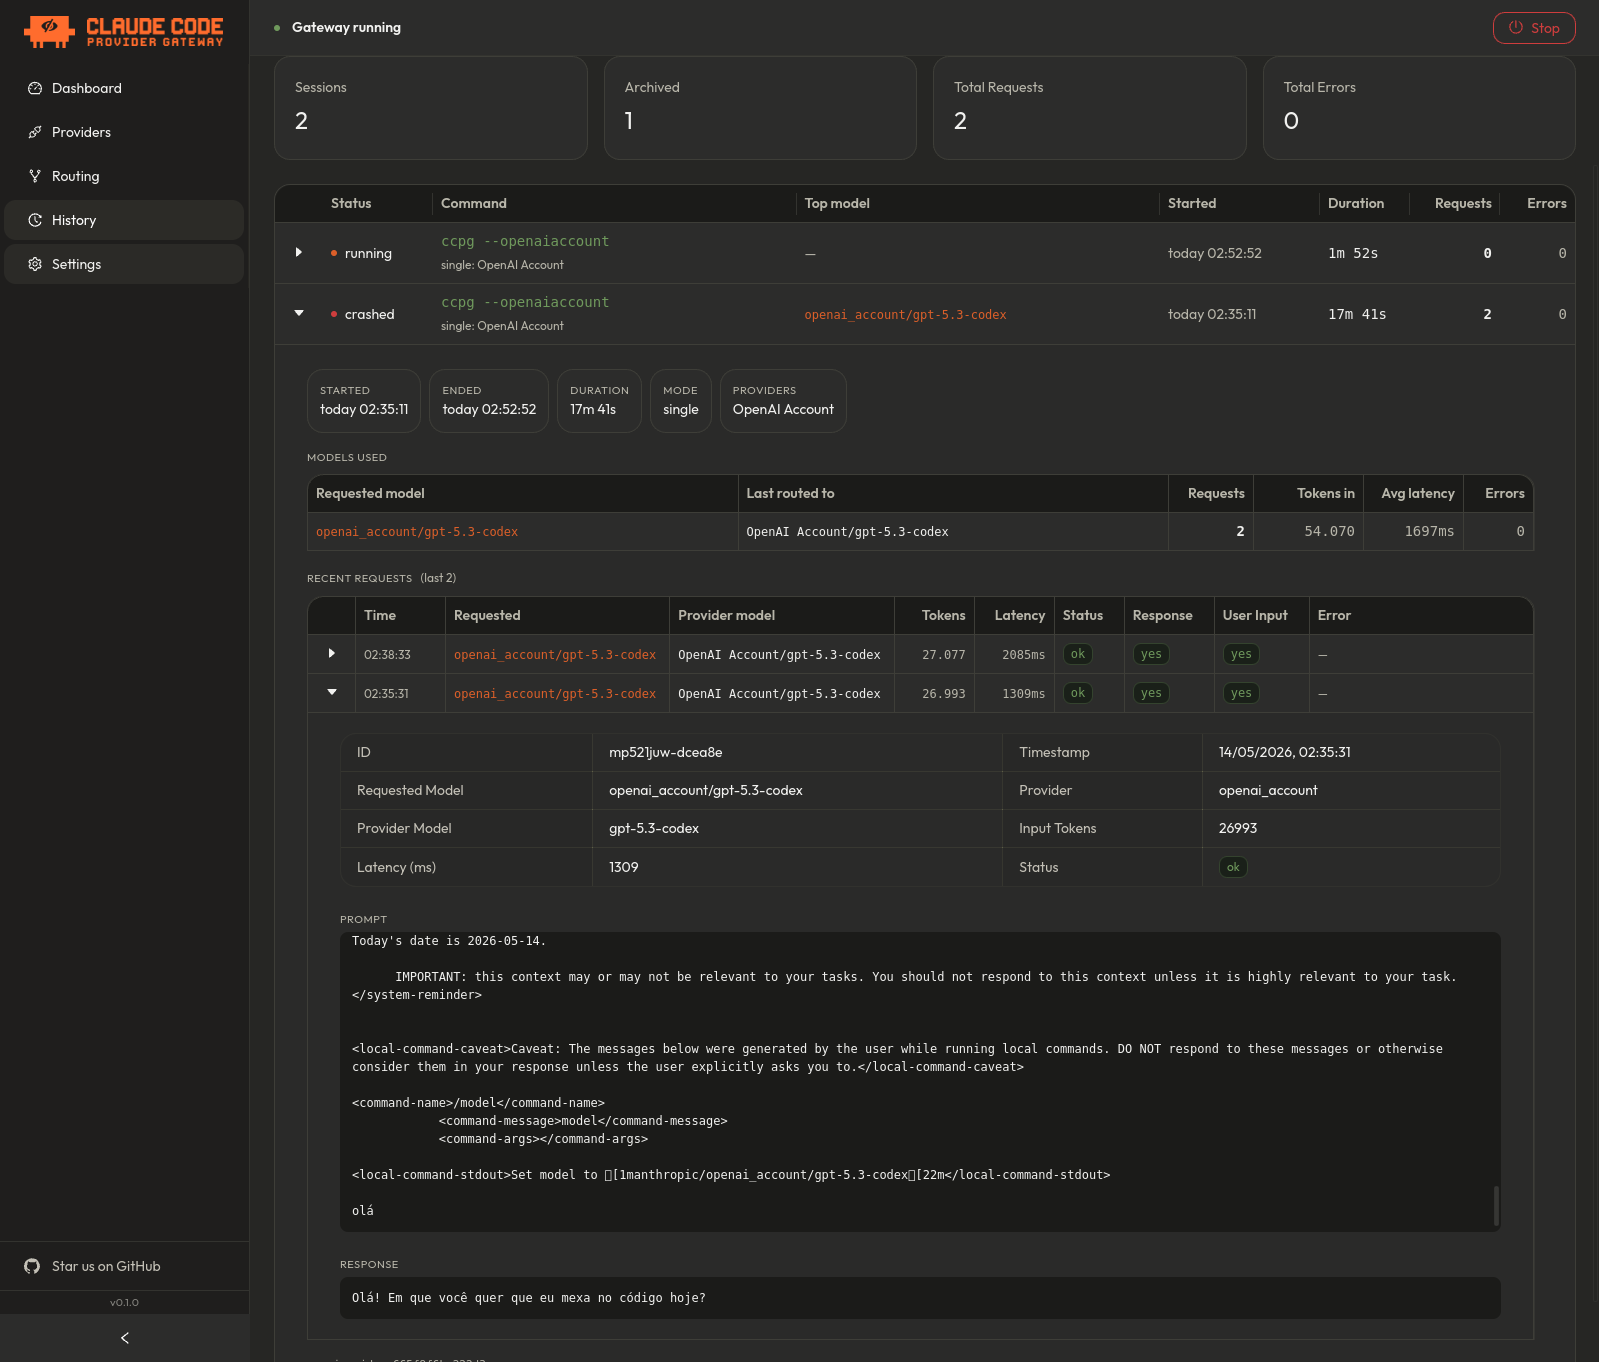
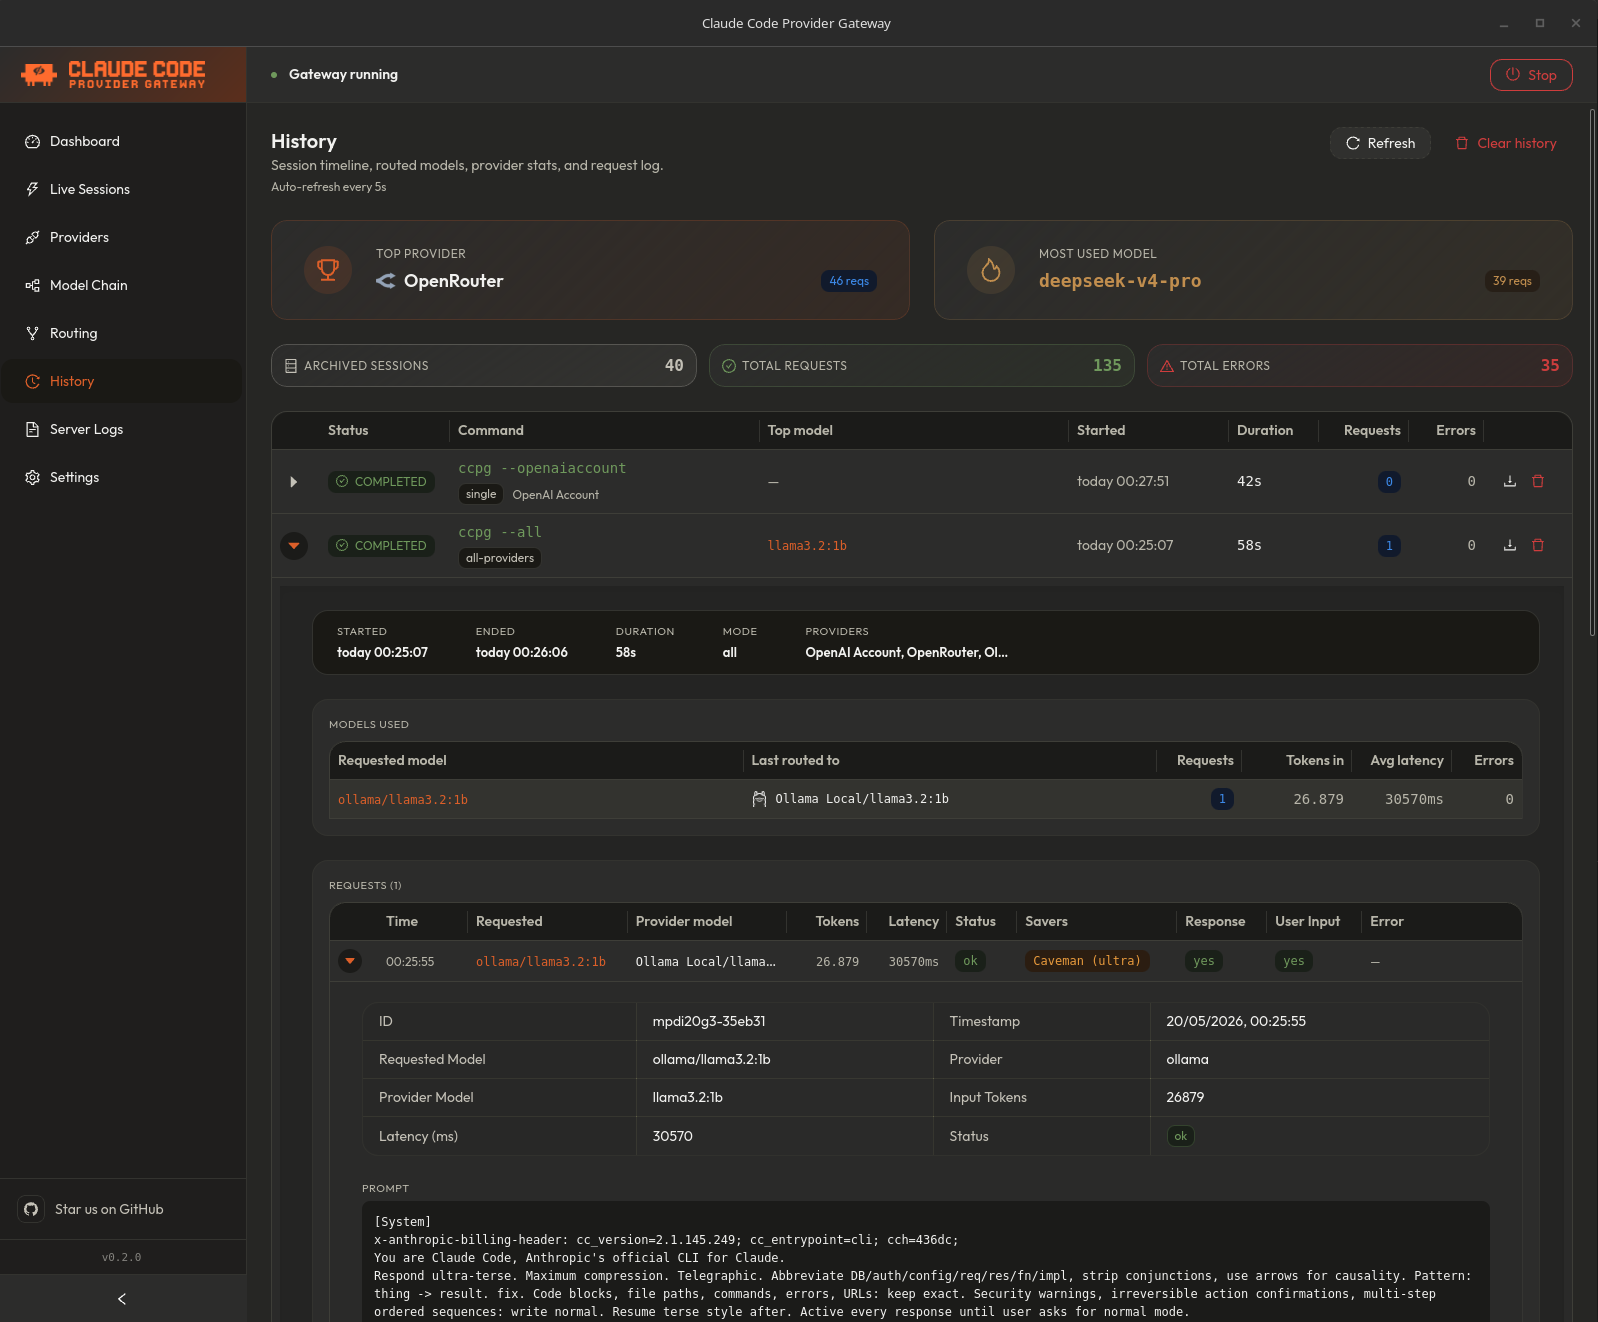
feat: Update screenshots and README.md

diff --git a/packages/panel/src/features/dashboard/components/quick-launch/QuickLaunchCard.tsx b/packages/panel/src/features/dashboard/components/quick-launch/QuickLaunchCard.tsx
@@ -1,5 +1,5 @@
 import { CodeOutlined, CopyOutlined } from "@ant-design/icons";
-import { Card, Empty, Flex, Tooltip, Typography, theme } from "antd";
+import { Card, Divider, Empty, Flex, Tooltip, Typography, theme } from "antd";
 import { useCopyToClipboard } from "../../../../shared/hooks/useCopyToClipboard.js";
 import type { LaunchItem } from "../../domain/types.js";
 
@@ -69,6 +69,8 @@ function AvailableProviders({
   onCopy: (key: string, value: string) => void;
 }) {
   const { token } = theme.useToken();
+  const providerItems = items.filter((item) => !isChainLaunchItem(item));
+  const chainItems = items.filter(isChainLaunchItem);
 
   if (error) {
     return (
@@ -93,20 +95,46 @@ function AvailableProviders({
   return (
     <Flex vertical gap={token.padding}>
       <Text type="secondary" style={{ fontSize: 14 }}>
-        Run Claude Code targeting a specific provider instantly:
+        Run Claude Code with a provider or Model Chain shortcut:
       </Text>
-      <Flex wrap gap={token.padding}>
-        {items.map((item) => (
-          <QuickLaunchTag
-            key={item.id}
-            item={item}
-            copied={copiedKey === item.id}
-            onCopy={onCopy}
-          />
-        ))}
-      </Flex>
+      {providerItems.length > 0 && (
+        <Flex wrap gap={token.padding}>
+          {providerItems.map((item) => (
+            <QuickLaunchTag
+              key={item.id}
+              item={item}
+              copied={copiedKey === item.id}
+              onCopy={onCopy}
+            />
+          ))}
+        </Flex>
+      )}
+      {chainItems.length > 0 && (
+        <>
+          <Divider style={{ margin: `${token.marginXS}px 0 0` }} />
+          <Flex vertical gap={token.paddingSM}>
+            <Text type="secondary" style={{ fontSize: 12, textTransform: "uppercase" }}>
+              Model Chains
+            </Text>
+            <Flex wrap gap={token.padding}>
+              {chainItems.map((item) => (
+                <QuickLaunchTag
+                  key={item.id}
+                  item={item}
+                  copied={copiedKey === item.id}
+                  onCopy={onCopy}
+                />
+              ))}
+            </Flex>
+          </Flex>
+        </>
+      )}
     </Flex>
   );
+}
+
+function isChainLaunchItem(item: LaunchItem): boolean {
+  return item.id.startsWith("chain:") || item.id === "model-chains";
 }
 
 function QuickLaunchTag({
@@ -119,7 +147,7 @@ function QuickLaunchTag({
   onCopy: (key: string, value: string) => void;
 }) {
   const { token } = theme.useToken();
-  const isChain = item.id.startsWith("chain:") || item.id === "model-chains";
+  const isChain = isChainLaunchItem(item);
 
   return (
     <Tooltip title={copied ? "Copied!" : `Copy ${item.label}`}>

diff --git a/packages/panel/src/features/dashboard/hooks/useLaunchCommands.ts b/packages/panel/src/features/dashboard/hooks/useLaunchCommands.ts
@@ -20,20 +20,36 @@ export function useLaunchCommands() {
 
   const items: LaunchItem[] = useMemo(() => {
     if (!launch) return [];
-    return [
-      { id: "all", label: "All providers", badge: "--all", cmd: launch.all },
-      {
-        id: "model-chains",
-        label: "All Model Chains",
-        badge: "--ModelChain",
-        cmd: launch.modelChains,
-      },
-      ...launch.perProvider.map((p) => ({
+    const providerItems = launch.perProvider
+      .filter((p) => !p.id.startsWith("chain:"))
+      .map((p) => ({
         id: p.id,
         label: p.label,
         badge: flagFromCommand(p.cli),
         cmd: p.cli,
-      })),
+      }));
+    const chainItems = launch.perProvider
+      .filter((p) => p.id.startsWith("chain:"))
+      .map((p) => ({
+        id: p.id,
+        label: p.label,
+        badge: flagFromCommand(p.cli),
+        cmd: p.cli,
+      }));
+    return [
+      { id: "all", label: "All providers", badge: "--all", cmd: launch.all },
+      ...providerItems,
+      ...(chainItems.length >= 2
+        ? [
+            {
+              id: "model-chains",
+              label: "All Model Chains",
+              badge: "--ModelChain",
+              cmd: launch.modelChains,
+            },
+          ]
+        : []),
+      ...chainItems,
     ];
   }, [launch]);
 

diff --git a/docs/APP_SCREENS.md b/docs/APP_SCREENS.md
@@ -1,0 +1,73 @@
+# App Screens
+
+Use this page to preview the CCPG desktop app before installing it. These screens show the main management areas: dashboard, providers, model routing, model chains, live sessions, history, logs, and settings.
+
+## Dashboard
+
+The dashboard shows daemon status, active providers, live gateway activity, and shell setup actions.
+
+<p align="center">
+  <img src="../.github/assets/screen-pages/dashboard.png" alt="CCPG dashboard" width="95%" />
+</p>
+
+## Providers
+
+The Providers screen is where users enable built-in providers, configure credentials, test connections, favorite providers, and add custom compatible endpoints.
+
+<p align="center">
+  <img src="../.github/assets/screen-pages/providers.png" alt="CCPG providers screen" width="95%" />
+</p>
+
+## Model Routing
+
+Model Routing maps Claude Code tiers to the provider models you want CCPG to use.
+
+<p align="center">
+  <img src="../.github/assets/screen-pages/model-routing.png" alt="CCPG model routing screen" width="95%" />
+</p>
+
+## Model Chains
+
+Model Chains let users create fallback chains from active provider models and expose each chain as a single Claude Code model.
+
+<p align="center">
+  <img src="../.github/assets/screen-pages/model-chain.png" alt="CCPG model chain screen" width="95%" />
+</p>
+
+## Live Session
+
+Live Session shows the currently running Claude Code gateway session.
+
+<p align="center">
+  <img src="../.github/assets/screen-pages/live-session-no-requests.png" alt="CCPG live session with no requests" width="95%" />
+</p>
+
+When requests are flowing, the same screen shows routed provider activity and session request details.
+
+<p align="center">
+  <img src="../.github/assets/screen-pages/live-session-with-requests.png" alt="CCPG live session with requests" width="95%" />
+</p>
+
+## History
+
+History records completed sessions and request-level details, including providers, models, token counts, latency, errors, prompt previews, and response previews.
+
+<p align="center">
+  <img src="../.github/assets/screen-pages/history.png" alt="CCPG history screen" width="95%" />
+</p>
+
+## Server Logs
+
+Server Logs expose local daemon output for debugging provider issues, launch problems, and gateway behavior.
+
+<p align="center">
+  <img src="../.github/assets/screen-pages/server-logs.png" alt="CCPG server logs screen" width="95%" />
+</p>
+
+## Settings
+
+Settings controls proxy behavior, token savers, server options, and other local gateway preferences.
+
+<p align="center">
+  <img src="../.github/assets/screen-pages/settings.png" alt="CCPG settings screen" width="95%" />
+</p>

diff --git a/README.md b/README.md
@@ -6,7 +6,7 @@
 
 Run Claude Code through OpenAI Account, GitHub Copilot, OpenRouter, DeepSeek, Groq, xAI, Mistral, GLM, Minimax, Command Code, Ollama, LM Studio, llama.cpp, custom OpenAI/Anthropic-compatible endpoints, and many other providers, while keeping the Claude Code workflow intact.
 
-[![Version](https://img.shields.io/badge/v0.1-early_release-111827?style=for-the-badge)](#status)
+[![Version](https://img.shields.io/badge/v0.2-early_release-111827?style=for-the-badge)](#status)
 [![License](https://img.shields.io/badge/license-MIT-22c55e?style=for-the-badge)](LICENSE)
 [![Desktop App](https://img.shields.io/badge/desktop_app-Tauri-24c8db?style=for-the-badge)](packages/desktop)
 [![Providers](https://img.shields.io/badge/providers-40%2B-2563eb?style=for-the-badge)](#supported-providers)
@@ -20,7 +20,11 @@ Run Claude Code through OpenAI Account, GitHub Copilot, OpenRouter, DeepSeek, Gr
 </div>
 
 <p align="center">
-  <img src=".github/assets/home.gif" alt="Claude Code Provider Gateway desktop app demo" width="95%" />
+  <img src=".github/assets/home.png" alt="Claude Code Provider Gateway desktop app demo" width="95%" />
+</p>
+
+<p align="center">
+  <a href="docs/APP_SCREENS.md">View app screens</a>
 </p>
 
 ---
@@ -435,6 +439,7 @@ Runtime files live in:
 | Document | Use it for |
 |---|---|
 | [Documentation Hub](docs/README.md) | The complete docs map and reading paths for users, contributors, and maintainers. |
+| [App Screens](docs/APP_SCREENS.md) | Preview the desktop app UI before installing it. |
 | [Getting Started](docs/GETTING-STARTED.md) | Install the desktop app, configure a provider, and launch Claude Code through `ccpg`. |
 | [Providers](docs/PROVIDERS.md) | Provider catalog, auth modes, CLI flags, model discovery, Model Chains, and panel behavior. |
 | [Configuration](docs/CONFIGURATION.md) | Config file shape, environment variables, defaults, secrets, and runtime storage. |

diff --git a/docs/README.md b/docs/README.md
@@ -19,6 +19,7 @@ cleaner, source-linked form.
 
 | Document | Purpose |
 |---|---|
+| [App Screens](APP_SCREENS.md) | Preview the desktop app UI before installing it. |
 | [Getting Started](GETTING-STARTED.md) | Install the desktop app, complete first-run setup, and launch Claude Code through `ccpg`. |
 | [Configuration](CONFIGURATION.md) | Runtime config shape, environment variables, defaults, secrets, and storage locations. |
 | [Providers](PROVIDERS.md) | Provider catalog, auth modes, CLI flags, model discovery, Model Chains, and provider UX. |